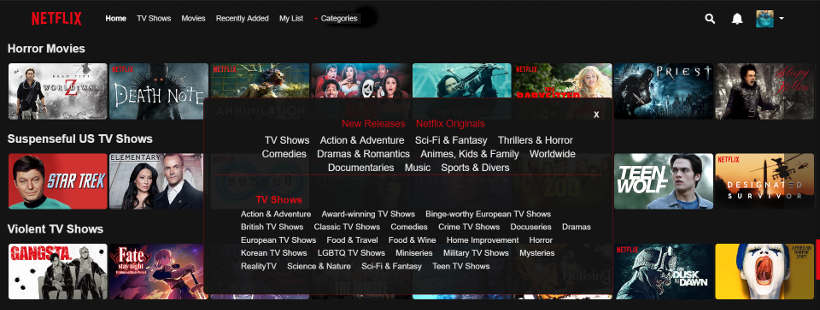
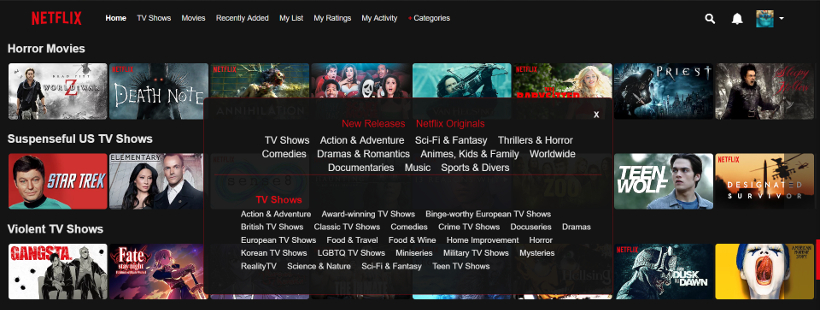
Update Netflix Script!

Changed region(s): [[0.122, 0.029, 0.5488, 0.0871], [0.0305, 0.029, 0.0915, 0.0871]]

diff --git a/netflix-more-categories.user.js b/netflix-more-categories.user.js
@@ -17,9 +17,11 @@
 
     // CSS
     GM_addStyle ( `
-        .catsLinkcolor:hover, .newNav a:hover, .newReleases { color:#e50914!important; }
-        .newNav a:before { content: "+"; margin-right:3px; color:#e50914; }
-        .newNav a:hover:before, #newCatsContainer a { color:#e5e5e5; }
+        .newNav a:hover, .newReleases, .catsLinkcolor:hover { color:#e50914!important; }
+        .newNav { display:flex!important; }
+        .newNav a { margin-right:1.4em; }
+        .newNavCats:hover:before, #newCatsContainer a { color:#e5e5e5; }
+        .newNavCats:before { content: "+"; margin-right:3px; color:#e50914; }
         .newReleases:hover { color:#e5e5e5!important; }
         #newWrapper { position:fixed; top:0; width:100%; height:100%; display:flex; display:-webkit-flex; -webkit-justify-content:center; justify-content:center; z-index:9999; }
         #newCatsContainer { top:4.3em; width:50vw; min-height:23vw; max-height:auto; background-color:rgba(20,20,20,.95); margin:auto; padding:20px; box-sizing:border-box; border:1px solid rgb(229,9,20,.5); border-radius:8px; }
@@ -33,7 +35,6 @@
     ` );
 
     window.setTimeout(function() {
-
         var menuItemsTV = [
             {id: 10673, name: "Action & Adventure"},
             {id: 89814, name: "Award-winning TV Shows"},
@@ -59,7 +60,6 @@
             {id: 1372, name: "Sci-Fi & Fantasy"},
             {id: 60951, name: "Teen TV Shows"}
         ];
-
         var menuItemsAA = [
             {id: 1365, name: "Action & Adventure"},
             {id: 43040, name: "Action Comedies"},
@@ -75,7 +75,6 @@
             {id: 8985, name: "Martial Arts Movies"},
             {id: 2125, name: "Military Action & Adventure"}
         ];
-
         var menuItemsSF = [
             {id: 1492, name: "Sci-Fi & Fantasy"},
             {id: 1568, name: "Action Sci-Fi & Fantasy"},
@@ -87,7 +86,6 @@
             {id: 1694, name: "Sci-Fi Horror Movies"},
             {id: 11014, name: "Sci-Fi Thrillers"}
         ];
-
         var menuItemsTH = [
             {id: 8933, name: "Thrillers"},
             {id: 46588, name: "Classic Thrillers"},
@@ -101,7 +99,6 @@
             {id: 972, name: "Steamy Thrillers"},
             {id: 11140, name: "Supernatural Thrillers"}
         ];
-
         var menuItemsHO = [
             {id: 8711, name: "Horror Movies"},
             {id: 8195, name: "B-Horror Movies"},
@@ -115,7 +112,6 @@
             {id: 75930, name: "Werewolfs"},
             {id: 75405, name: "Zombies"}
         ];
-
         var menuItemsCO = [
             {id: 1252, name: "Campy Movies"},
             {id: 6548, name: "Comedies"},
@@ -134,7 +130,6 @@
             {id: 11559, name: "Stand-up Comedy"},
             {id: 3519, name: "Teen Comedies"}
         ];
-
         var menuItemsDR = [
             {id: 5763, name: "Dramas"},
             {id: 3179, name: "Biographical Dramas"},
@@ -152,7 +147,6 @@
             {id: 3947, name: "Social Issue Dramas"},
             {id: 7243, name: "Sports Dramas"}
         ];
-
         var menuItemsRO = [
             {id: 8883, name: "Romantic Movies"},
             {id: 31273, name: "Classic Romantic Movies"},
@@ -162,7 +156,6 @@
             {id: 9916, name: "Romantic Independent Movies"},
             {id: 3329, name: "Romantic LGBTQ Movies"}
         ];
-
         var menuItemsAN = [
             {id: 11881, name: "Adult Animation"},
             {id: 4698, name: "Animation"},
@@ -176,7 +169,6 @@
             {id: 10695, name: "Horror"},
             {id: 2729, name: "Sci-Fi"}
         ];
-
         var menuItemsKI = [
             {id: 27346, name: "Kids TV"},
             {id: 52843, name: "Kids Music"},
@@ -193,7 +185,6 @@
             {id: 561, name: "Movies (8 to 10 years)"},
             {id: 6962, name: "Movies (11 to 12 years)"}
         ];
-
         var menuItemsWO = [
             {id: 3761, name: "African"},
             {id: 5230, name: "Australian"},
@@ -216,7 +207,6 @@
             {id: 9196, name: "Southeast Asian"},
             {id: 58741, name: "Spanish"}
         ];
-
         var menuItemsDO = [
             {id: 6839, name: "Documentaries"},
             {id: 10105, name: "Docuseries"},
@@ -239,7 +229,6 @@
             {id: 180, name: "Sports"},
             {id: 1159, name: "Travel & Adventure"}
         ];
-
         var menuItemsMU = [
             {id: 1701, name: "Music"},
             {id: 32392, name: "Classic Musicals"},
@@ -255,7 +244,6 @@
             {id: 9472, name: "Urban & Dance Concerts"},
             {id: 2856, name: "World Music Concerts"}
         ];
-
         var menuItemsSP = [
             {id: 9327, name: "Sports & Fitness"},
             {id: 12339, name: "Baseball"},
@@ -264,7 +252,6 @@
             {id: 12803, name: "Football"},
             {id: 12549, name: "Soccer"}
         ];
-
         var menuItemsDI = [
             {id: 7077, name: "Independent Movies"},
             {id: 29764, name: "Art House Movies"},
@@ -278,11 +265,22 @@
         var newNav = document.createElement('li'); //the new menu item
         newNav.setAttribute('class', 'newNav');
         newNav.classList.add('navigation-tab');//to get netflix default style
-        var newNavLink = document.createElement('a'); //the link within menuitem
-        newNavLink.classList.add('showFullGenreList');
-        newNavLink.setAttribute('href', 'javascript:document.getElementById("newWrapper").setAttribute("style", "display:flex;");');
-        newNav.appendChild(newNavLink);
-        newNavLink.appendChild(document.createTextNode("Categories"));
+           var newNavRat = document.createElement('a'); //the link within menuitem
+           newNavRat.classList.add('showFullGenreList');
+           newNavRat.setAttribute('href', '/MoviesYouveSeen');
+           newNav.appendChild(newNavRat);
+           newNavRat.appendChild(document.createTextNode("My Ratings"));
+           var newNavAct = document.createElement('a'); //the link within menuitem
+           newNavAct.classList.add('showFullGenreList');
+           newNavAct.setAttribute('href', '/viewingactivity');
+           newNav.appendChild(newNavAct);
+           newNavAct.appendChild(document.createTextNode("My Activity"));
+           var newNavCats = document.createElement('a'); //the link within menuitem
+           newNavCats.classList.add('showFullGenreList');
+           newNavCats.classList.add('newNavCats');
+           newNavCats.setAttribute('href', 'javascript:document.getElementById("newWrapper").setAttribute("style", "display:flex;");');
+           newNav.appendChild(newNavCats);
+           newNavCats.appendChild(document.createTextNode("Categories"));
         FlixMenu[0].appendChild(newNav);
 
         /* create full genre list as hide/show container */
@@ -293,11 +291,11 @@
         var newCatsContainerDiv = document.createElement('div');
         newCatsContainerDiv.setAttribute('id', 'newCatsContainer');
         newWrapperDiv.appendChild(newCatsContainerDiv);
-        var closeCatsMenu = document.createElement('a');
-        closeCatsMenu.setAttribute('href', 'javascript:document.getElementById("newWrapper").setAttribute("style", "display:none;");');
-        closeCatsMenu.setAttribute('class', 'catsLinkcolor closeCats');
-        closeCatsMenu.appendChild(document.createTextNode('x'));
-        newCatsContainerDiv.appendChild(closeCatsMenu);
+           var closeCatsMenu = document.createElement('a');
+           closeCatsMenu.setAttribute('href', 'javascript:document.getElementById("newWrapper").setAttribute("style", "display:none;");');
+           closeCatsMenu.setAttribute('class', 'catsLinkcolor closeCats');
+           closeCatsMenu.appendChild(document.createTextNode('x'));
+           newCatsContainerDiv.appendChild(closeCatsMenu);
 
         /* create Sub Menu special list */
         var subSpecialCats = document.createElement('ul');
@@ -467,7 +465,6 @@
             li.appendChild(a);
             a.appendChild(document.createTextNode(menuItemsTV[i].name));
         }
-
         /* generate menu Action & Adventure */
         var subAAdiv = document.createElement('div');
         subAAdiv.setAttribute('class', 'subDiv');
@@ -489,7 +486,6 @@
             li.appendChild(a);
             a.appendChild(document.createTextNode(menuItemsAA[i].name));
         }
-
         /* generate menu Sci-Fi & Fantasy */
         var subSFdiv = document.createElement('div');
         subSFdiv.setAttribute('class', 'subDiv');
@@ -511,7 +507,6 @@
             li.appendChild(a);
             a.appendChild(document.createTextNode(menuItemsSF[i].name));
         }
-
         /* generate menu Thrillers */
         var subTHdiv = document.createElement('div');
         subTHdiv.setAttribute('class', 'subDiv');
@@ -533,7 +528,6 @@
             li.appendChild(a);
             a.appendChild(document.createTextNode(menuItemsTH[i].name));
         }
-
         /* generate menu Horror */
         var subHOdiv = document.createElement('div');
         subHOdiv.setAttribute('class', 'subDiv');
@@ -555,7 +549,6 @@
             li.appendChild(a);
             a.appendChild(document.createTextNode(menuItemsHO[i].name));
         }
-
         /* generate menu Comedies */
         var subCOdiv = document.createElement('div');
         subCOdiv.setAttribute('class', 'subDiv');
@@ -577,7 +570,6 @@
             li.appendChild(a);
             a.appendChild(document.createTextNode(menuItemsCO[i].name));
         }
-
         /* generate menu Dramas */
         var subDRdiv = document.createElement('div');
         subDRdiv.setAttribute('class', 'subDiv');
@@ -599,7 +591,6 @@
             li.appendChild(a);
             a.appendChild(document.createTextNode(menuItemsDR[i].name));
         }
-
         /* generate menu Romantics */
         var subROdiv = document.createElement('div');
         subROdiv.setAttribute('class', 'subDiv');
@@ -621,7 +612,6 @@
             li.appendChild(a);
             a.appendChild(document.createTextNode(menuItemsRO[i].name));
         }
-
         /* generate menu Animes */
         var subANdiv = document.createElement('div');
         subANdiv.setAttribute('class', 'subDiv');
@@ -643,7 +633,6 @@
             li.appendChild(a);
             a.appendChild(document.createTextNode(menuItemsAN[i].name));
         }
-
         /* generate menu Kids */
         var subKIdiv = document.createElement('div');
         subKIdiv.setAttribute('class', 'subDiv');
@@ -665,7 +654,6 @@
             li.appendChild(a);
             a.appendChild(document.createTextNode(menuItemsKI[i].name));
         }
-
         /* generate menu Worldwide */
         var subWOdiv = document.createElement('div');
         subWOdiv.setAttribute('class', 'subDiv');
@@ -687,7 +675,6 @@
             li.appendChild(a);
             a.appendChild(document.createTextNode(menuItemsWO[i].name));
         }
-
         /* generate menu Documentaries */
         var subDOdiv = document.createElement('div');
         subDOdiv.setAttribute('class', 'subDiv');
@@ -709,7 +696,6 @@
             li.appendChild(a);
             a.appendChild(document.createTextNode(menuItemsDO[i].name));
         }
-
         /* generate menu Music */
         var subMUdiv = document.createElement('div');
         subMUdiv.setAttribute('class', 'subDiv');
@@ -731,7 +717,6 @@
             li.appendChild(a);
             a.appendChild(document.createTextNode(menuItemsMU[i].name));
         }
-
         /* generate menu Sports */
         var subSPdiv = document.createElement('div');
         subSPdiv.setAttribute('class', 'subDiv');
@@ -753,7 +738,6 @@
             li.appendChild(a);
             a.appendChild(document.createTextNode(menuItemsSP[i].name));
         }
-
         /* generate menu Divers */
         var subDIdiv= document.createElement('div');
         subDIdiv.setAttribute('class', 'subDiv');
@@ -775,6 +759,5 @@
             li.appendChild(a);
             a.appendChild(document.createTextNode(menuItemsDI[i].name));
         }
-
     }, 60);
 })();

diff --git a/netflix-expanded.user.js b/netflix-expanded.user.js
@@ -99,7 +99,7 @@
     });
     window.setTimeout(function() {
       observer.observe(document.querySelector('#appMountPoint'), { childList: true, subtree: true });
-  }, 200);
+  }, 500);
 
     function goTop() { scroll(0, 0); } // create the Go Top function!
     /* create The Go Top Button */
